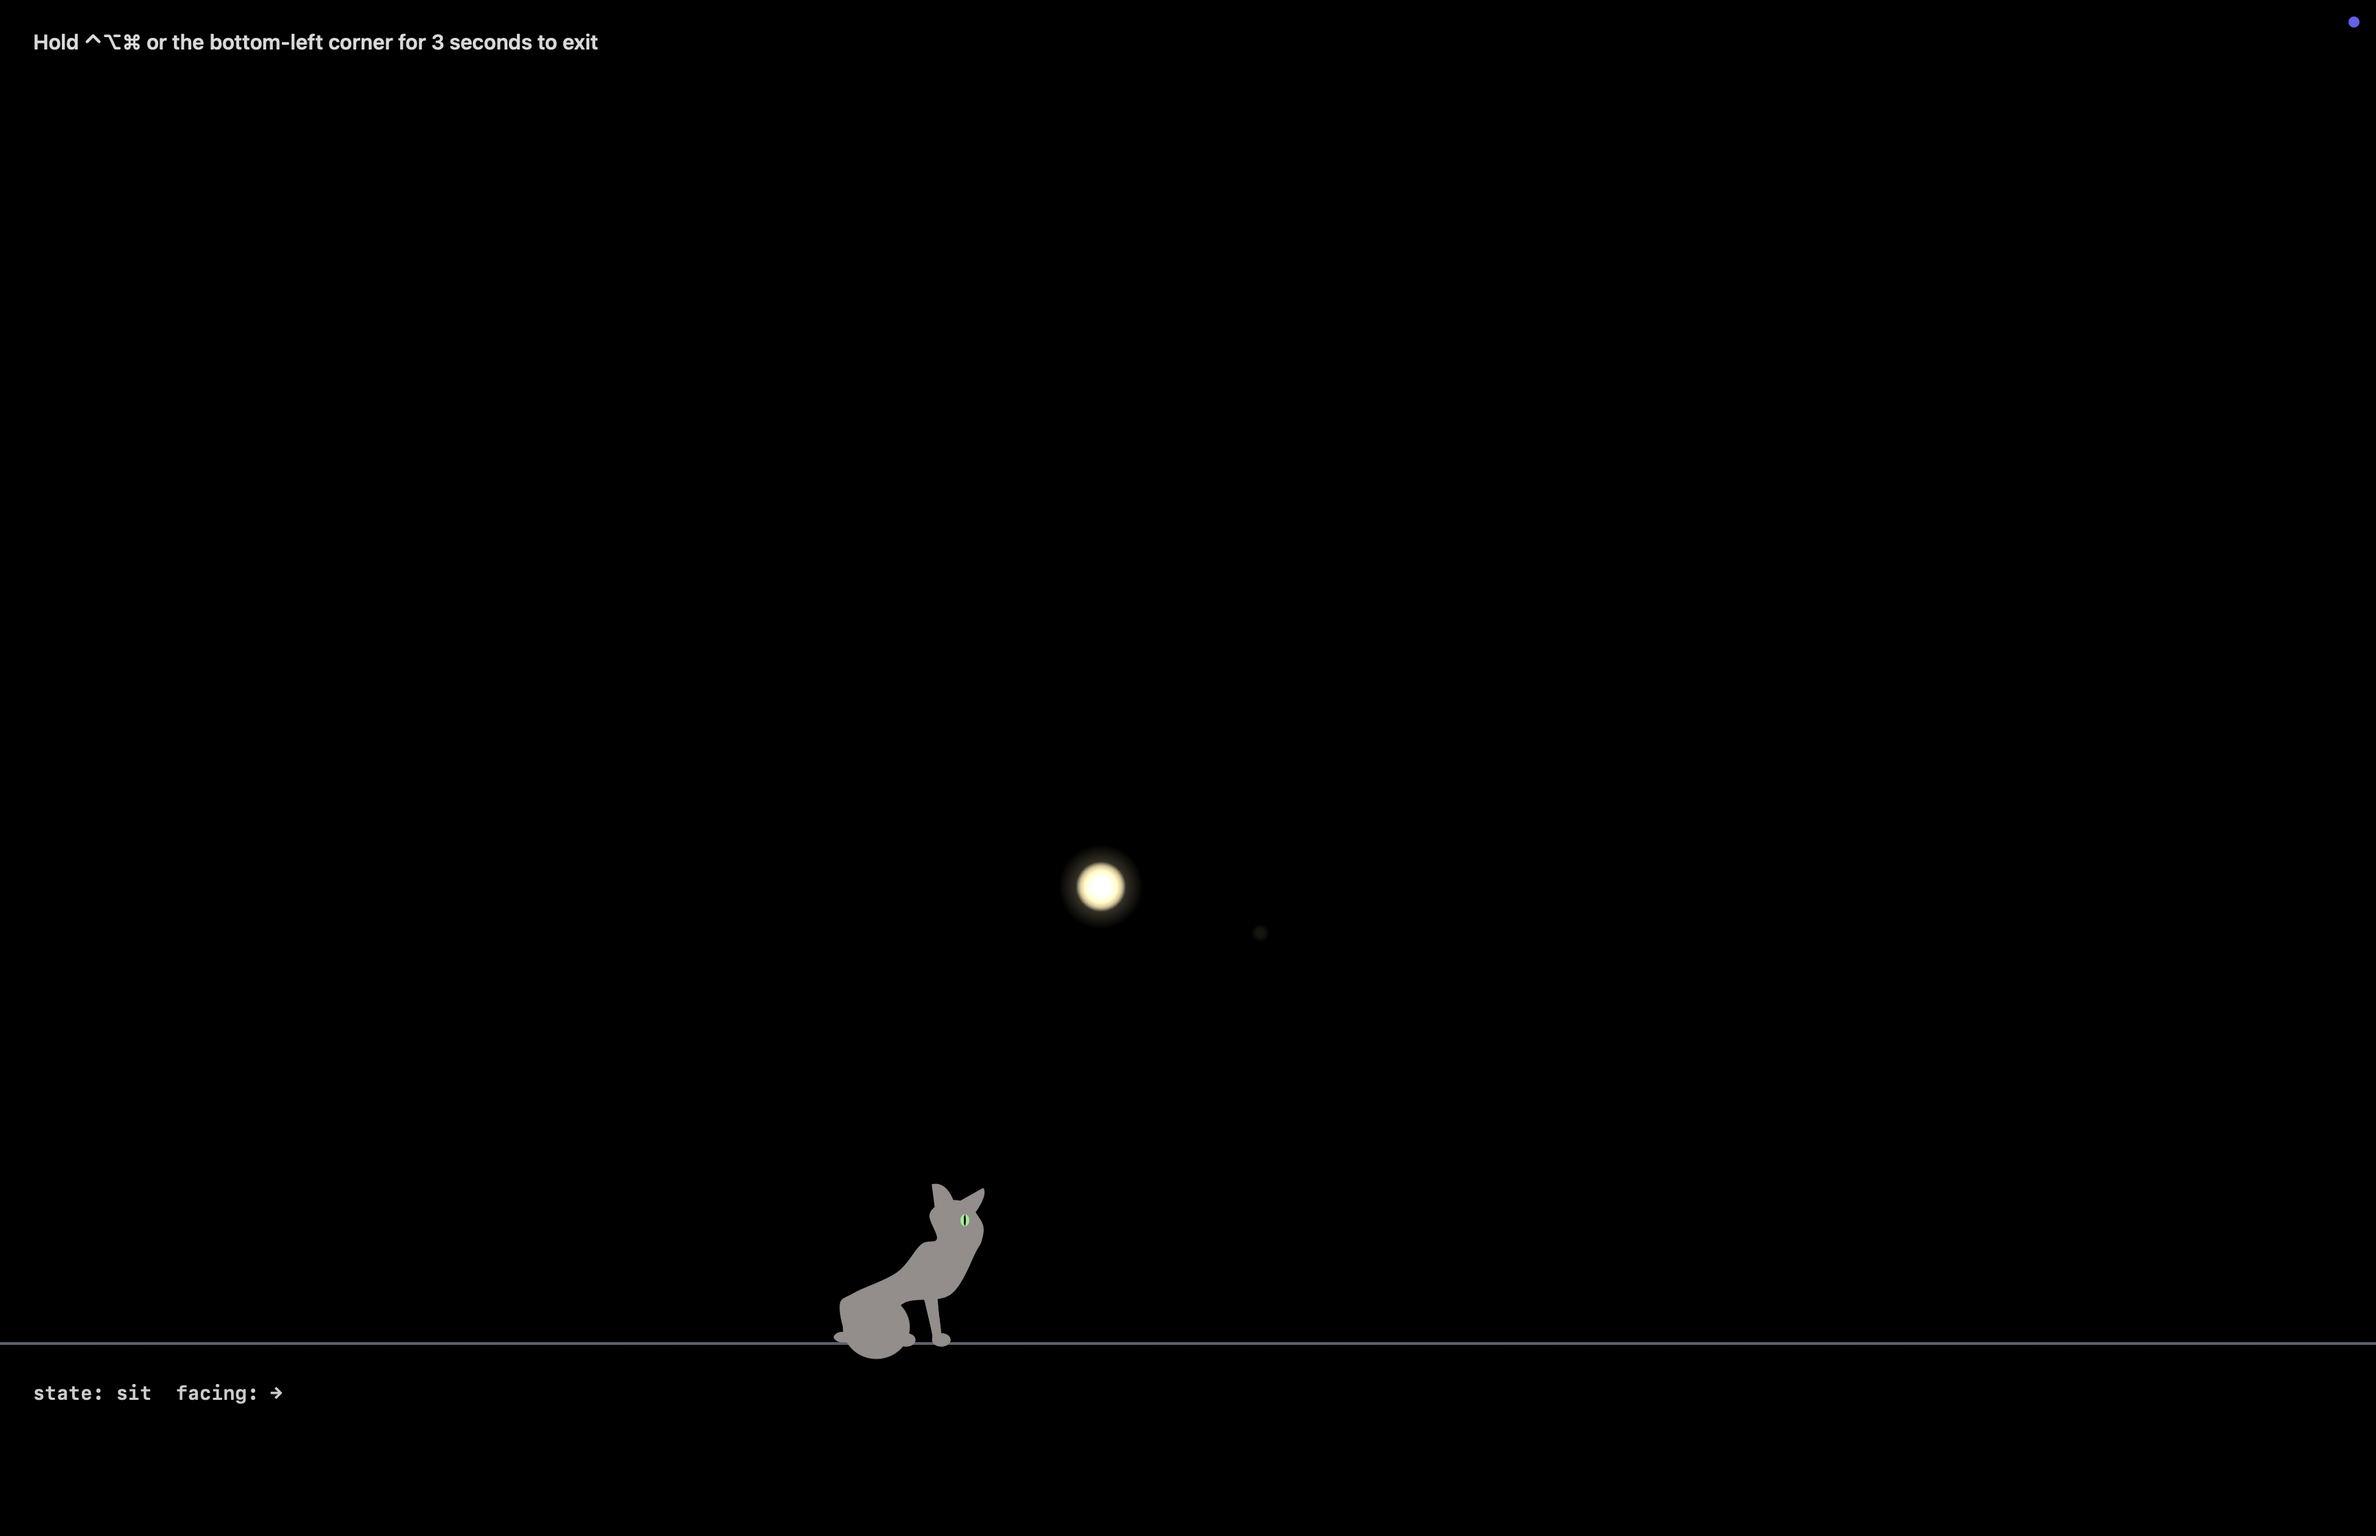
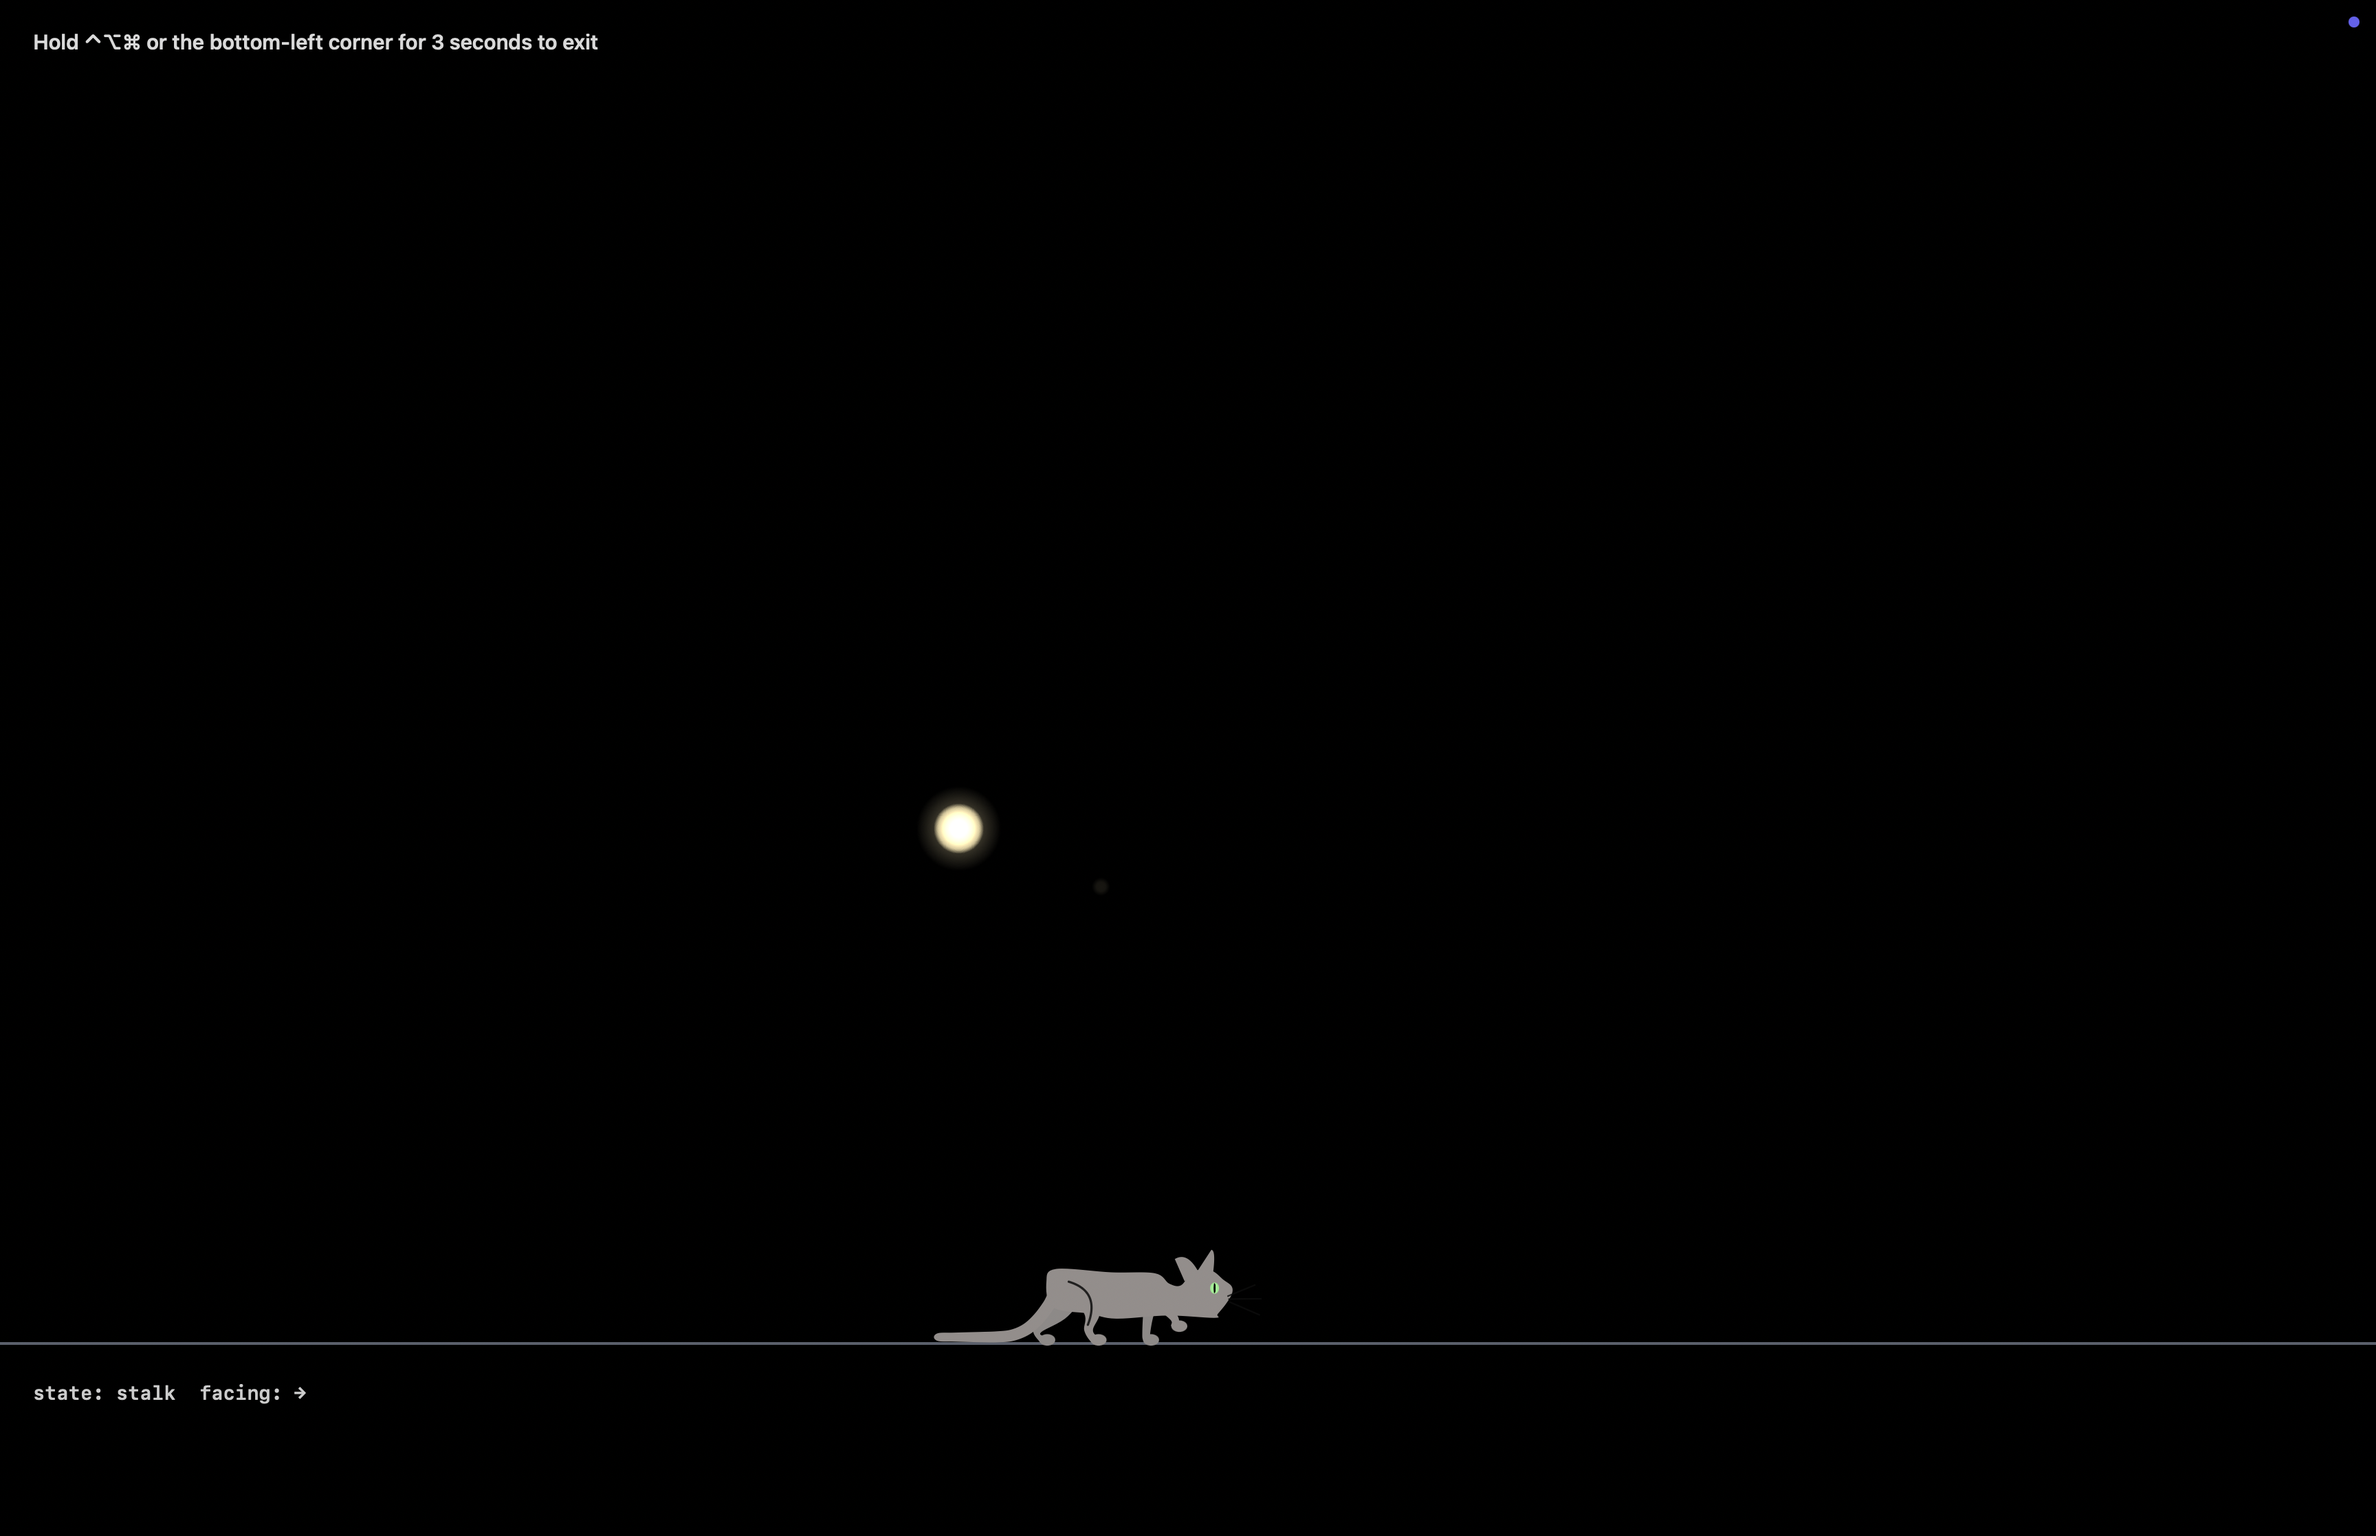
KiddyCat silhouette: rebuilt to the reference vector-art style
User-supplied reference: charcoal cat silhouettes with thin light accent
lines, long tubular tails, big canted ears, real muzzle profiles, whiskers.
Rebuilt the silhouette renderer to that spec on the same motion rig:

- Head profile is a real cat now: crown -> brow -> nose STEP -> chin -> jaw
  in the single closed outline (was a circle); head settled low on the
  shoulders; ears seated on the crown, canted slightly outward, and they
  ROTATE with head pitch (they used to stay fixed while the head tilted)
- Whiskers: three thin strokes fanning from the muzzle front
- Accent lines (the style's signature): background-colored strokes carving
  the haunch arc and the foreleg out of the solid fill; foreleg line only
  on static poses (it floated once the leg swung); haunch arc stays on the
  body in the sit fold
- Tail: 10-segment chain, near-uniform tubular width, rounded tip — and in
  sit/groom a forward verlet bias wraps it around the front paws like the
  reference's sitting cat
- Slimmer elegant legs and smaller paws to match reference proportions

Verified by capture against the reference sheet: idle, walk (tail-up S),
sit (wrapped tail), stalk (low creep).

diff --git a/Sources/kiddyproof/KiddyCat.swift b/Sources/kiddyproof/KiddyCat.swift
@@ -38,8 +38,8 @@ final class KiddyCat {
         self.groundY = groundY
         self.size = size
         pos.y = groundY
-        let seg = size * 0.16
-        tail = (0..<9).map { i in NSPoint(x: p.x - size * 0.9 - CGFloat(i) * seg, y: groundY + size * 0.55) }
+        let seg = size * 0.18
+        tail = (0..<10).map { i in NSPoint(x: p.x - size * 0.9 - CGFloat(i) * seg, y: groundY + size * 0.55) }
         tailPrev = tail
     }
 
@@ -238,7 +238,7 @@ final class KiddyCat {
             : (state == .sit || state == .groom ? 0.58 : 0.72)
         let root = NSPoint(x: pos.x - facing * size * rootBack,
                            y: pos.y + size * pose.rumpHeight * (style == .arcade ? 0.72 : 0.88))
-        let seg = size * 0.15
+        let seg = size * 0.18
         let (lift, sway) = tailMood()
         // Verlet integrate.
         for i in 0..<tail.count {
@@ -248,6 +248,10 @@ final class KiddyCat {
             let t = CGFloat(i) / CGFloat(tail.count - 1)
             vel.y += (lift * t * size * 5.2 - size * 2.2) * dt * dt * 60
             vel.x += CGFloat(sin(now * (1.3 + Double(sway)) + Double(t) * 2.6)) * sway * t * size * 0.5 * dt
+            // Sitting: the tail curls forward and wraps around the paws.
+            if state == .sit || state == .groom {
+                vel.x += facing * t * t * size * 2.6 * dt * dt * 60
+            }
             tailPrev[i] = cur
             tail[i] = cur + vel
             // The tail never drags through the floor.
@@ -555,7 +559,7 @@ final class KiddyCat {
                     (footX - 0.005, footY + 0.14),
                     (footX, footY + 0.05),
                 ])
-                path = Self.ribbon(pts, [s * 0.26, s * 0.16, s * 0.115, s * 0.11])
+                path = Self.ribbon(pts, [s * 0.21, s * 0.135, s * 0.10, s * 0.095])
             } else {
                 // Hip → knee (forward) → hock (heel points BACK — the cat cue) → paw.
                 let fold = 1 - sit
@@ -565,12 +569,12 @@ final class KiddyCat {
                     (footX - 0.07 * fold, footY + 0.17),
                     (footX, footY + 0.05),
                 ])
-                path = Self.ribbon(pts, [s * 0.40, s * 0.24, s * 0.125, s * 0.115])
+                path = Self.ribbon(pts, [s * 0.36, s * 0.21, s * 0.11, s * 0.10])
             }
             ctx.addPath(path)
             ctx.fillPath()
             // Paw: a soft rounded oval, slightly forward.
-            let pw = s * 0.115
+            let pw = s * 0.10
             let pp = P(footX + 0.055, footY + 0.045)
             ctx.fillEllipse(in: CGRect(x: pp.x - pw, y: pp.y - pw * 0.72, width: pw * 2, height: pw * 1.44))
         }
@@ -584,20 +588,19 @@ final class KiddyCat {
             let n = pts.count
             let widths = (0..<n).map { i -> CGFloat in
                 let t = CGFloat(i) / CGFloat(n - 1)
-                return s * (0.22 - 0.10 * t)
+                return s * (0.155 - 0.055 * t * t)
             }
             ctx.setFillColor(bodyColor.cgColor)
             ctx.addPath(Self.ribbon(pts, widths))
             ctx.fillPath()
         }
 
-        // --- Body + head: ONE closed smooth outline from chin around the whole
-        // animal — continuous curvature is what separates a logo-quality
-        // silhouette from welded primitives. The skull section rides on a circle
-        // of radius R so the head stays guaranteed-round.
+        // --- Body + head: ONE closed smooth outline. The head section is a real
+        // cat profile (crown → brow → nose STEP → chin → jaw), not a circle —
+        // the muzzle step is what the reference silhouettes live on.
         let hp = headPitch
-        let R: CGFloat = 0.35
-        let hcx = headX + 0.02, hcy = headY + 0.02 + hp * 0.22
+        let R: CGFloat = 0.33
+        let hcx = headX - 0.09, hcy = headY - 0.13 + hp * 0.22
         // Head-relative point, gently rotated by head pitch.
         let ca = cos(hp * 0.5), sa = sin(hp * 0.5)
         func H(_ dx: CGFloat, _ dy: CGFloat) -> (CGFloat, CGFloat) {
@@ -606,7 +609,7 @@ final class KiddyCat {
         let spineTopY = (shoulderY + rumpY) / 2 + 0.17 + pose.backArch
         let bellyY = shoulderY - 0.50 + pose.crouch * 0.22
         var outline: [(CGFloat, CGFloat)] = []
-        outline.append(H(R * 0.55, -R * 0.98))                              // under chin
+        outline.append(H(R * 0.15, -R * 0.94))                              // under jaw
         outline.append((shoulderX + 0.14 + sit * 0.11, shoulderY - 0.34 - sit * 0.04)) // chest
         outline.append(((shoulderX + rumpX) / 2 + 0.06, bellyY))            // belly
         outline.append((rumpX + 0.30, rumpY - 0.38 - sit * 0.10))           // groin / thigh front
@@ -616,33 +619,35 @@ final class KiddyCat {
         outline.append(((rumpX + shoulderX) / 2, spineTopY))                // spine crest
         outline.append((shoulderX - 0.02 - sit * 0.10, shoulderY + 0.19 + sit * 0.06 + pose.backArch * 0.3)) // withers
         outline.append((shoulderX + 0.16 - sit * 0.08, shoulderY + 0.06 + sit * 0.26)) // neck top
-        outline.append(H(-R * 0.72, R * 0.72))                              // crown back
-        outline.append(H(-R * 0.05, R * 1.02))                              // crown top
-        outline.append(H(R * 0.66, R * 0.76))                               // forehead
-        outline.append(H(R * 0.95, R * 0.12))                               // nose bridge
-        outline.append(H(R * 1.00, -R * 0.30))                              // muzzle / nose
-        outline.append(H(R * 0.80, -R * 0.72))                              // chin
+        outline.append(H(-R * 0.70, R * 0.62))                              // crown back
+        outline.append(H(-R * 0.12, R * 0.98))                              // crown top
+        outline.append(H(R * 0.55, R * 0.82))                               // brow
+        outline.append(H(R * 0.90, R * 0.34))                               // stop (brow → muzzle)
+        outline.append(H(R * 1.12, R * 0.02))                               // nose tip
+        outline.append(H(R * 1.05, -R * 0.26))                              // under nose
+        outline.append(H(R * 0.72, -R * 0.56))                              // chin
+        outline.append(H(R * 0.30, -R * 0.84))                              // jaw
         ctx.setFillColor(bodyColor.cgColor)
         ctx.addPath(Self.catmull(mapped(outline), closed: true))
         ctx.fillPath()
 
-        // Ears: filled triangles seated on the skull circle, drawn over the fill.
+        // Ears: big, slightly canted outward, convex outer edge (reference cue).
         let flick = earFlick * 0.1
-        let earLen = R * (0.62 + 0.5 * pose.earPerk)
+        let earLen = R * (0.66 + 0.38 * pose.earPerk)
         func ear(baseA: CGFloat, tipA: CGFloat, tipLen: CGFloat) {
             let e = CGMutablePath()
-            let a1 = baseA - 0.42, a2 = baseA + 0.42
-            e.move(to: P(hcx + cos(a1) * R * 0.92, hcy + sin(a1) * R * 0.92))
-            let tip = (x: hcx + cos(tipA) * (R * 0.75 + tipLen), y: hcy + sin(tipA) * (R * 0.75 + tipLen))
+            let a1 = baseA - 0.36, a2 = baseA + 0.36
+            e.move(to: P(hcx + cos(a1) * R * 0.90, hcy + sin(a1) * R * 0.90))
+            let tip = (x: hcx + cos(tipA) * (R * 0.72 + tipLen), y: hcy + sin(tipA) * (R * 0.72 + tipLen))
             e.addQuadCurve(to: P(tip.x, tip.y),
-                           control: P(hcx + cos(a1 + 0.16) * (R + tipLen * 0.7), hcy + sin(a1 + 0.16) * (R + tipLen * 0.7)))
-            e.addLine(to: P(hcx + cos(a2) * R * 0.92, hcy + sin(a2) * R * 0.92))
+                           control: P(hcx + cos(a1 + 0.14) * (R + tipLen * 0.75), hcy + sin(a1 + 0.14) * (R + tipLen * 0.75)))
+            e.addLine(to: P(hcx + cos(a2) * R * 0.90, hcy + sin(a2) * R * 0.90))
             e.closeSubpath()
             ctx.addPath(e)
             ctx.fillPath()
         }
-        ear(baseA: 2.0, tipA: 2.05 + flick, tipLen: earLen)        // rear ear
-        ear(baseA: 1.05, tipA: 0.95, tipLen: earLen)               // front ear
+        ear(baseA: 1.84 + hp * 0.5, tipA: 1.94 + hp * 0.5 + flick, tipLen: earLen) // rear ear
+        ear(baseA: 1.22 + hp * 0.5, tipA: 1.10 + hp * 0.5, tipLen: earLen)         // front ear
 
         // Sitting: haunch mass over the folded rear, blended into the outline.
         if sit > 0.15 {
@@ -655,14 +660,50 @@ final class KiddyCat {
         drawLeg(front: true, far: false)
         drawLeg(front: false, far: false)
 
-        // --- Eye (with blink) ---
+        // --- Accent lines: thin background-colored strokes carving the haunch
+        // and foreleg out of the solid fill — the reference style's signature.
+        let accent = NSColor(white: 0.05 + 0.90 * w, alpha: 0.85)
+        ctx.setStrokeColor(accent.cgColor)
+        ctx.setLineWidth(s * 0.028)
+        ctx.setLineCap(.round)
+        // Haunch: a sweeping thigh arc from the tail root around and down.
+        let haunch = CGMutablePath()
+        haunch.move(to: P(rumpX + 0.04 + sit * 0.04, rumpY + 0.02 + sit * 0.08))
+        haunch.addQuadCurve(to: P(rumpX + 0.28 + sit * 0.12, rumpY - 0.52 + sit * 0.18),
+                            control: P(rumpX + 0.44 + sit * 0.06, rumpY - 0.10))
+        ctx.addPath(haunch)
+        ctx.strokePath()
+        // Foreleg: a short line separating the near front leg from the chest.
+        // Static poses only — a swinging leg leaves the line floating.
+        if state != .pounceAir, abs(speed) < size * 0.3 {
+            let leg = CGMutablePath()
+            leg.move(to: P(shoulderX - 0.10 + sit * 0.06, bellyY - 0.01))
+            leg.addQuadCurve(to: P(shoulderX - 0.12 + sit * 0.10, 0.12),
+                             control: P(shoulderX - 0.13 + sit * 0.08, bellyY - 0.18))
+            ctx.addPath(leg)
+            ctx.strokePath()
+        }
+
+        // --- Whiskers: three thin strokes fanning from the muzzle.
+        ctx.setLineWidth(s * 0.018)
+        for (dy, len, tilt) in [(CGFloat(-0.06), CGFloat(0.38), CGFloat(0.09)),
+                                (CGFloat(-0.12), CGFloat(0.42), CGFloat(0.00)),
+                                (CGFloat(-0.18), CGFloat(0.36), CGFloat(-0.09))] {
+            let base = H(R * 0.88, R * (dy * 2 - 0.18))
+            let tip  = (base.0 + len * ca - tilt * sa, base.1 + len * sa + tilt * ca)
+            ctx.beginPath()
+            ctx.move(to: P(base.0, base.1))
+            ctx.addLine(to: P(tip.0, tip.1 + dy))
+            ctx.strokePath()
+        }
+
+        // --- Eye (with blink): almond with a slit pupil.
         let eyeOpen = 1 - blinkPhase
         if eyeOpen > 0.08 {
-            let e = P(hcx + 0.13, hcy + 0.04 + hp * 0.1)
-            let ew = s * 0.055, eh = s * 0.075 * eyeOpen
+            let e = P(hcx + R * 0.42, hcy + R * 0.22 + hp * 0.03)
+            let ew = s * 0.055, eh = s * 0.070 * eyeOpen
             ctx.setFillColor(NSColor(srgbRed: 0.55, green: 0.95, blue: 0.55, alpha: 0.95).cgColor)
             ctx.fillEllipse(in: CGRect(x: e.x - ew, y: e.y - eh, width: ew * 2, height: eh * 2))
-            // Slit pupil.
             ctx.setFillColor(NSColor.black.cgColor)
             ctx.fillEllipse(in: CGRect(x: e.x - ew * 0.22, y: e.y - eh * 0.9, width: ew * 0.44, height: eh * 1.8))
         }
